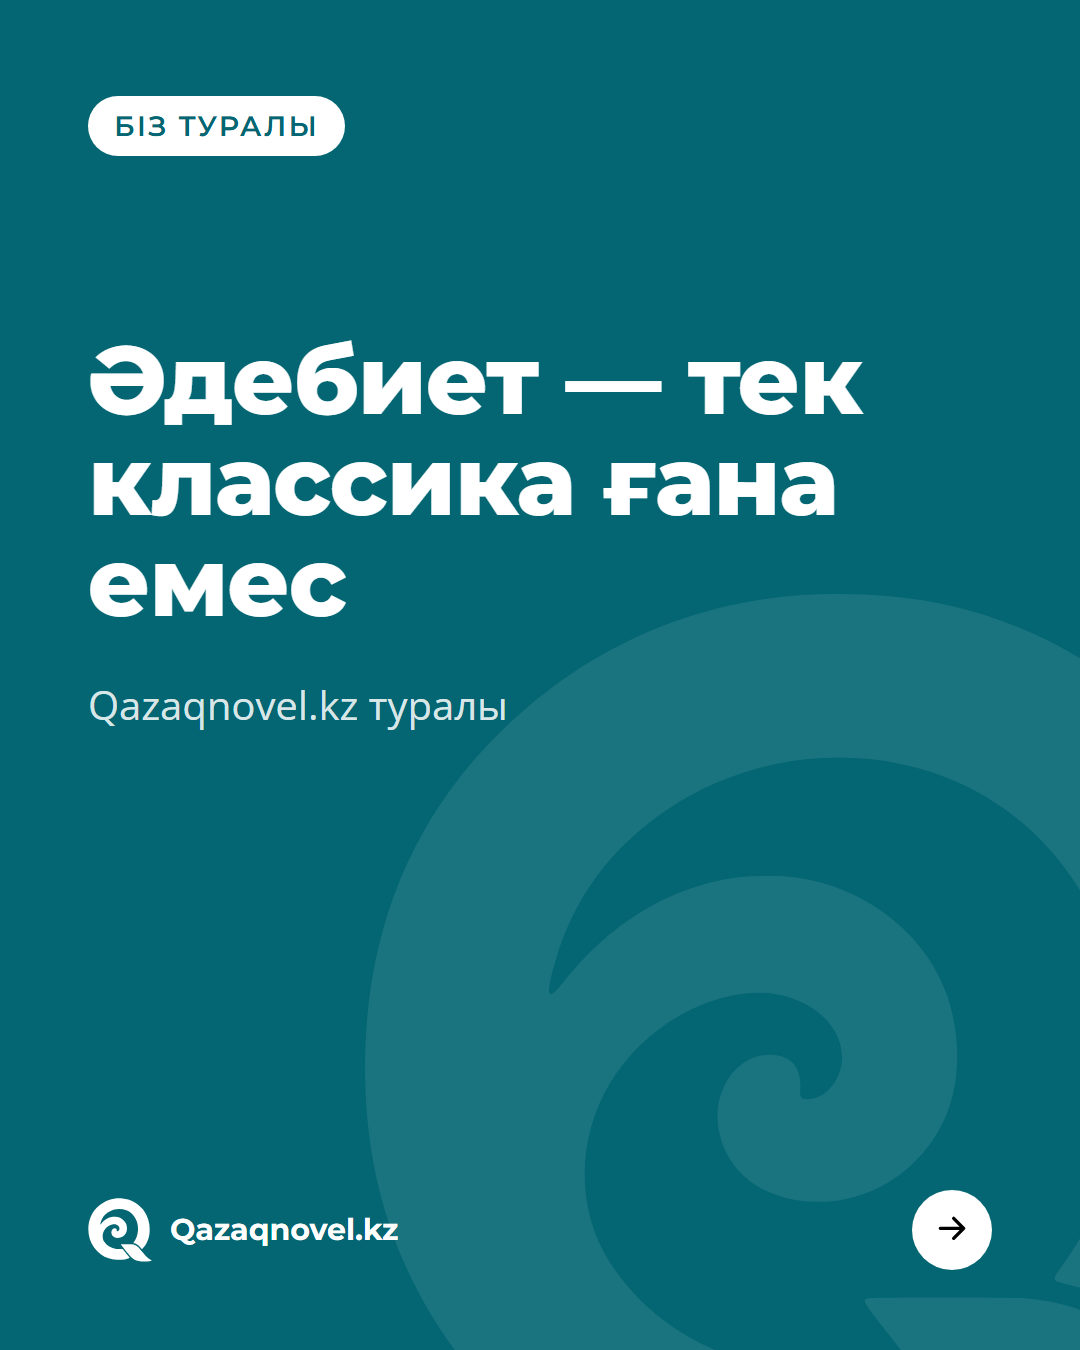
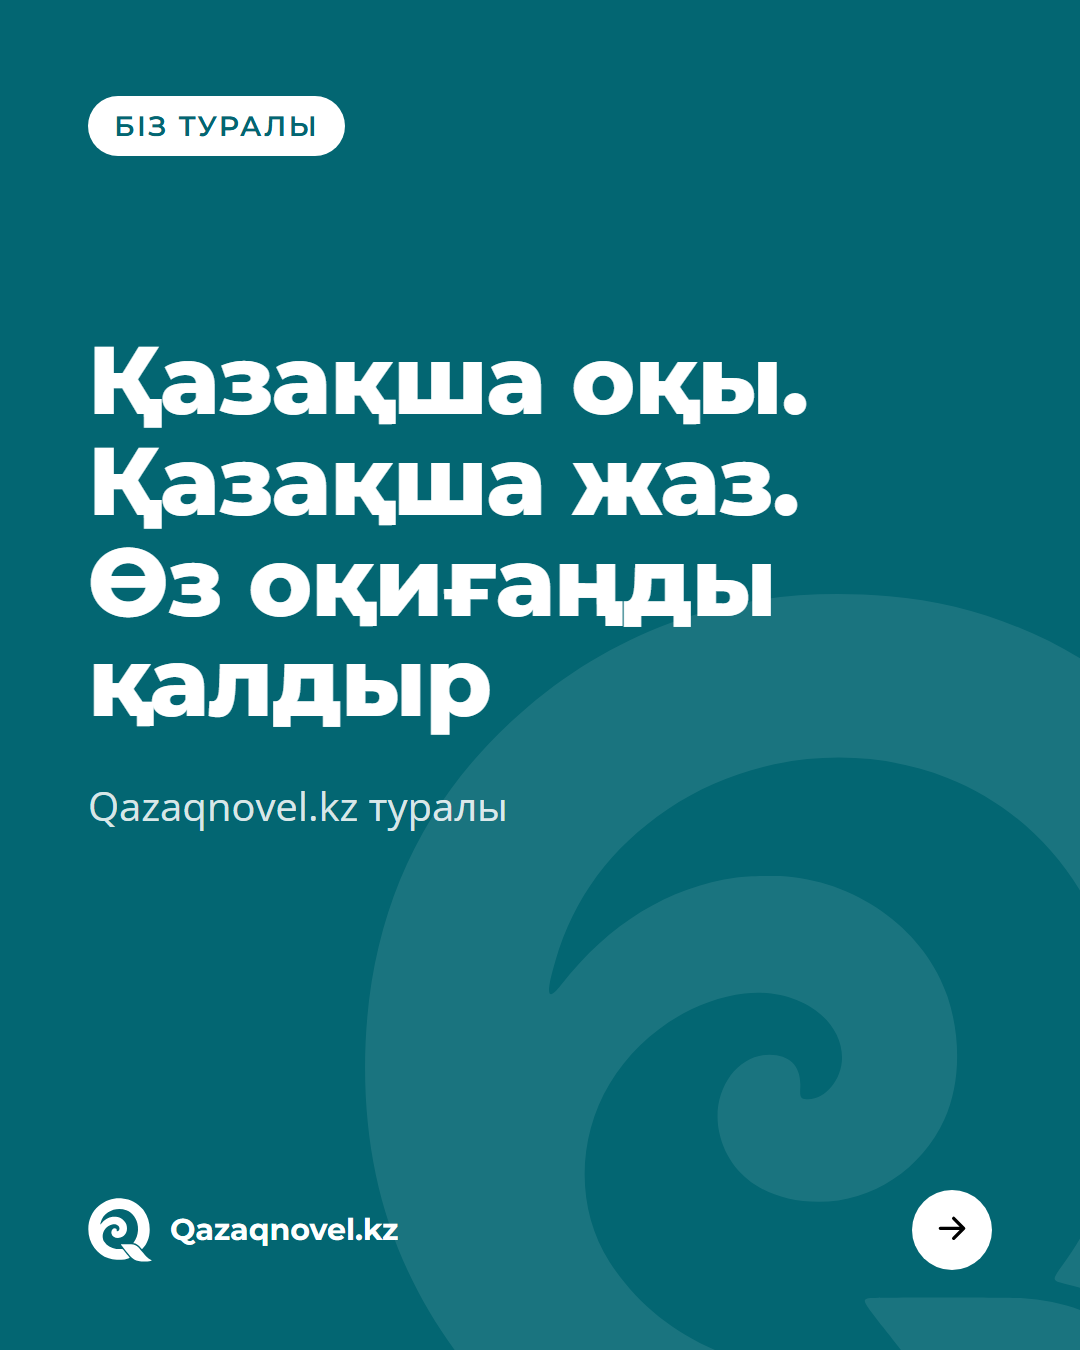
Rework the manifesto post around the full slogan
Owner's new cover and slide texts; "сен" on slide 5, with "шын атыңды"
since the site keeps only a username; a no-break space keeps "Өз" with
its word on the cover. The plan names the new cover. Local Claude
settings are gitignored.

Changed region(s): [[0.0611, 0.2489, 0.7944, 0.56], [0.0917, 0.5911, 0.4583, 0.6222]]

diff --git a/plan/2026-11.md b/plan/2026-11.md
@@ -14,7 +14,7 @@
 
 | Дата | День | Рубрика | Тема (заголовок обложки) | Нужно от владельца | Фон | Статус |
 |---|---|---|---|---|---|---|
-| 02.11 | Пн | Біз туралы | «Әдебиет — тек классика емес» — манифест по тексту страницы «Біз туралы». **Закрепить** | — (текст есть на сайте) | Бирюза | вычитка |
+| 02.11 | Пн | Біз туралы | «Қазақша оқы. Қазақша жаз. Өз оқиғаңды қалдыр» — манифест по тексту страницы «Біз туралы» (тезис «Әдебиет — тек классика ғана емес» — слайд 4). **Закрепить** | — (текст есть на сайте) | Бирюза | вычитка |
 | 03.11 | Вт | Біз туралы | «Шығармаң — сенікі» — как устроена платформа (тегін, модерация, шығарма автордың меншігі), по разделу «Қалай жұмыс істейді». **Закрепить** вместо байқау, пока его нет | — | Бирюза | вычитка |
 | 04.11 | Ср | Үзінді | отрывок № 1 | произведение, согласие автора, обложка | Қағаз | идея |
 | 06.11 | Пт | Дәйексөз | цитата классика о языке или слове | подтвердить источник цитаты | Терең | идея |
